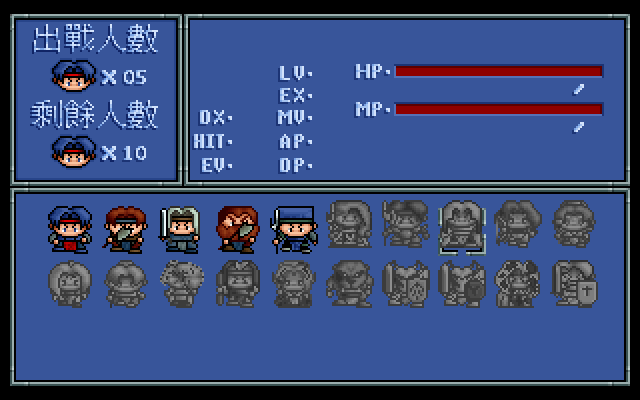
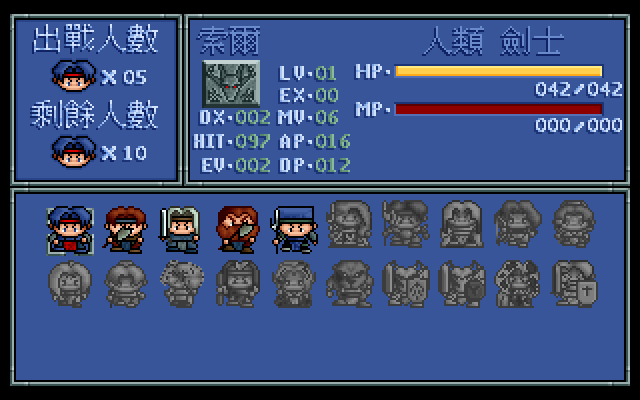
remake: 接回整備角色狀態面板

diff --git a/remake/cmd/fd2/native_preparation_ui_test.go b/remake/cmd/fd2/native_preparation_ui_test.go
@@ -18,6 +18,27 @@ func TestComposeNativePreparationFrameUsesRawRosterSelectors(t *testing.T) {
 	if err != nil {
 		t.Skipf("player-provided original assets are absent: %v", err)
 	}
+	status, err := battle.LoadNativeItemPanelDataAssets(
+		filepath.Join(base, "FDOTHER.DAT"),
+		filepath.Join(base, "FDTXT.DAT"),
+	)
+	if err != nil {
+		t.Fatal(err)
+	}
+	scenario, err := battle.LoadScenario("../../assets/scenarios/ch01.json")
+	if err != nil {
+		t.Fatal(err)
+	}
+	units := scenario.PartyUnits(nil)
+	if len(units) < 3 {
+		t.Fatal("chapter one party lacks three native records")
+	}
+	ids := make([]int, 3)
+	roster := make(map[int]battle.Unit, len(ids))
+	for i, unit := range units[:3] {
+		ids[i] = unit.Fig
+		roster[unit.Fig] = *unit
+	}
 	g := &Game{
 		camp: campaign.NewRunner(&campaign.Campaign{
 			Start: "prep",
@@ -25,24 +46,20 @@ func TestComposeNativePreparationFrameUsesRawRosterSelectors(t *testing.T) {
 				"prep": {Type: "preparation", PartyLimit: 15},
 			},
 		}),
-		nativePreparationUI: assets,
+		nativePreparationUI: &nativePreparationUIAssets{roster: assets, status: status},
 		nativeClassUI:       &nativeClassUIAssets{},
-		prepIDs:             []int{0, 9, 4},
+		prepIDs:             ids,
 		prepSel:             1,
 		prepLimit:           15,
 		prepSelecting:       true,
-		partyDeploy:         map[int]bool{9: true},
-		partyRoster: map[int]battle.Unit{
-			0: {MapSelectorKey: 0, HasMapSelectorKey: true},
-			9: {MapSelectorKey: 9, HasMapSelectorKey: true},
-			4: {MapSelectorKey: 4, HasMapSelectorKey: true},
-		},
+		partyDeploy:         map[int]bool{ids[1]: true},
+		partyRoster:         roster,
 	}
 	frame, ok := g.composeNativePreparationFrame()
 	if !ok || len(frame) != 320*200 {
 		t.Fatalf("native preparation frame unavailable: ok=%v length=%d", ok, len(frame))
 	}
-	g.partyRoster[9] = battle.Unit{}
+	g.partyRoster[ids[1]] = battle.Unit{}
 	if _, ok := g.composeNativePreparationFrame(); ok {
 		t.Fatal("preparation renderer guessed a missing raw FDICON selector")
 	}

diff --git a/remake/cmd/fd2/native_preparation_ui.go b/remake/cmd/fd2/native_preparation_ui.go
@@ -5,18 +5,34 @@ import (
 	"path/filepath"
 
 	"github.com/hajimehoshi/ebiten/v2"
+	"github.com/wicanr2/fd2_re/remake/internal/battle"
 	"github.com/wicanr2/fd2_re/remake/internal/fdother"
 )
 
-func loadNativePreparationUIAssets() (*fdother.NativePreparationAssets, error) {
+type nativePreparationUIAssets struct {
+	roster *fdother.NativePreparationAssets
+	status battle.NativeItemPanelDataAssets
+}
+
+func loadNativePreparationUIAssets() (*nativePreparationUIAssets, error) {
 	fdotherPath := nativeFDOTHERPath()
 	if fdotherPath == "" {
 		return nil, errors.New("native preparation UI: FDOTHER.DAT unavailable")
 	}
-	return fdother.DecodeNativePreparationAssets(
+	roster, err := fdother.DecodeNativePreparationAssets(
 		fdotherPath,
 		filepath.Join(filepath.Dir(fdotherPath), "FDICON.B24"),
 	)
+	if err != nil {
+		return nil, err
+	}
+	status, err := battle.LoadNativeItemPanelDataAssets(
+		fdotherPath, filepath.Join(filepath.Dir(fdotherPath), "FDTXT.DAT"),
+	)
+	if err != nil {
+		return nil, err
+	}
+	return &nativePreparationUIAssets{roster: roster, status: status}, nil
 }
 
 func (g *Game) composeNativePreparationFrame() ([]byte, bool) {
@@ -42,10 +58,20 @@ func (g *Game) composeNativePreparationFrame() ([]byte, bool) {
 	// lifecycle is still open, so production deliberately presents the
 	// verified base state 0 rather than borrowing another screen's timer.
 	frame, err := fdother.ComposeNativePreparationFrame(
-		g.nativePreparationUI,
+		g.nativePreparationUI.roster,
 		keys, selected, g.prepSel, 0, g.prepLimit,
 	)
 	if err != nil {
+		return nil, false
+	}
+	unit := g.partyRoster[g.prepIDs[g.prepSel]]
+	record, err := battle.NativeItemPanelRecordForUnit(&unit)
+	if err != nil {
+		return nil, false
+	}
+	if err := battle.RenderNativeItemPanelData(
+		g.nativePreparationUI.status, record, frame,
+	); err != nil {
 		return nil, false
 	}
 	return frame, true

diff --git a/remake/cmd/fd2-preparation-oracle/main.go b/remake/cmd/fd2-preparation-oracle/main.go
@@ -11,11 +11,13 @@ import (
 	"os"
 	"path/filepath"
 
+	"github.com/wicanr2/fd2_re/remake/internal/battle"
 	"github.com/wicanr2/fd2_re/remake/internal/fdother"
 )
 
 func main() {
 	base := flag.String("base", "", "player-owned FLAME2 directory")
+	scenario := flag.String("scenario", "", "editable scenario supplying one proven native party record")
 	out := flag.String("out", "preparation-roster-oracle.png", "output PNG")
 	flag.Parse()
 	if *base == "" {
@@ -37,11 +39,39 @@ func main() {
 		selected[i] = i < 5
 	}
 	frame, err := fdother.ComposeNativePreparationFrame(
-		assets, keys, selected, 7, 0, 15,
+		assets, keys, selected, 0, 0, 15,
 	)
 	if err != nil {
 		fmt.Fprintln(os.Stderr, err)
 		os.Exit(1)
+	}
+	if *scenario != "" {
+		dataAssets, err := battle.LoadNativeItemPanelDataAssets(
+			fdotherPath, filepath.Join(*base, "FDTXT.DAT"),
+		)
+		if err != nil {
+			fmt.Fprintln(os.Stderr, err)
+			os.Exit(1)
+		}
+		battleScenario, err := battle.LoadScenario(*scenario)
+		if err != nil {
+			fmt.Fprintln(os.Stderr, err)
+			os.Exit(1)
+		}
+		units := battleScenario.PartyUnits(nil)
+		if len(units) == 0 {
+			fmt.Fprintln(os.Stderr, "指定情境沒有可用的原始玩家角色記錄")
+			os.Exit(1)
+		}
+		record, err := battle.NativeItemPanelRecordForUnit(units[0])
+		if err != nil {
+			fmt.Fprintln(os.Stderr, err)
+			os.Exit(1)
+		}
+		if err := battle.RenderNativeItemPanelData(dataAssets, record, frame); err != nil {
+			fmt.Fprintln(os.Stderr, err)
+			os.Exit(1)
+		}
 	}
 	paletteRaw, err := fdother.ReadResource(fdotherPath, 0)
 	if err != nil {

diff --git a/remake/cmd/fd2/main.go b/remake/cmd/fd2/main.go
@@ -181,7 +181,7 @@ type Game struct {
 	nativeTownUIPulse        int
 	nativeTownUILastTick     int
 	nativeTownUIHasTick      bool
-	nativePreparationUI      *fdother.NativePreparationAssets
+	nativePreparationUI      *nativePreparationUIAssets
 	nativeChurchUIJob        *nativeChurchUIJob
 	nativeChurchUIClock      nativeBIOSClock
 	nativeChurchUIPulse      int

diff --git a/docs/knowledge-base/91-worklist.md b/docs/knowledge-base/91-worklist.md
@@ -996,8 +996,10 @@
   生產接線與真實 FDOTHER／FDICON 回歸；局部證據圖為
   [`preparation-roster-compositor-partial.png`](../figures/preparation-roster-compositor-partial.png)。
   此圖以原始圖像索引 0～19 建立，明確不是 DOSBox 截圖、正常戰役名冊或
-  `FD2.SAV` 證據。下一門檻是 `0x17fc0` 右上角色狀態、BIOS 待機週期、
-  `0x1f42d` 動畫、最終確認與合法晚期存檔的同狀態實機差分。
+  `FD2.SAV` 證據。游標角色的右上狀態已直接重用既有、真實資源驗證的
+  `0x17fc0` 合成器與完整 0x50 位元組記錄；缺原始欄位即整張退回。
+  下一門檻是 BIOS 待機週期、`0x1f42d` 動畫、最終確認與合法晚期存檔的
+  同狀態實機差分。
 - [~] **SDD-3 UI shell vertical slice**：已新增 `TestUIShellVerticalTraceKeepsPostbattleTownAndShopBoundary`，以 title confirm、story→battle、battle win→editable postbattle、town→shop→town 的同一 state trace 固定「戰後不可直跳下一戰」；既有 town/shop/preparation 截圖 artifact 與 Docker/Xvfb regression 可重跑。battle field/action/dialog 的同一條畫面 trace、原版 DOSBox pixel differential 仍待補齊。
 - [ ] **SDD-4 native renderer re-audit**：完成 resource provenance 與 indexed buffer contract 前，不得把 finale figure-fade／ending prefix 宣稱為完成。
 - [x] **RE-UNIT-STATIC-TABLES**：以 Docker 實際 FD2.EXE 產生/驗證 raw fixture：高 branch `b1-0x44 → 0x61af9` 68×10；lower branch `0x61da1` 32×24／`0x620a1` 68×11。constructor caller 的 level 公式與 `+0x42` join 已由 Capstone 固定；`export_units.py`／`sync_native_selector_fields.py` 將 raw provenance 輸出到 33 張 editable map asset。未被 table 覆蓋的 selector 與 HUD renderer consumer 仍維持 fail-closed；`0x619fd` 不屬於 constructor。

diff --git a/docs/knowledge-base/SESSION-HANDOFF-2026-07-06.md b/docs/knowledge-base/SESSION-HANDOFF-2026-07-06.md
@@ -1992,6 +1992,12 @@ slot6 active 條件、SPAWN2、兩段 PAN、800/200ms 與 FDTXT_003 #4 七句也
   [`preparation-roster-compositor-partial.png`](../figures/preparation-roster-compositor-partial.png)
   以原始圖像索引 0～19 顯示 20 格，只是資源／版面局部證據，不是原版
   DOSBox、正常戰役名冊或晚期存檔。
-- 尚未完成：`0x17fc0` 右上角色狀態、`0x1297d` BIOS 待機週期、
-  `0x1f42d` 進退動畫、最終確認外觀，以及合法晚期 `FD2.SAV` 的同狀態
-  原版／重製差分。這些缺口使 UI-11 維持部分完成。
+- 後續重讀 `0x17fc0..0x182ab`，確認它就是既有教會／物品面板使用的同一
+  個 0x50 位元組角色記錄合成器。整備生產路徑現先畫背景／名冊，再把游標
+  角色交給 `NativeItemPanelRecordForUnit→RenderNativeItemPanelData`，
+  重現姓名、種族、職業、HP／MP、等級、經驗、移動與能力值；缺任何原始
+  記錄欄位即整張退回，不從正規化名稱或角色編號補猜。成果圖以 ch01 索爾
+  的真實可編輯情境記錄填入右上狀態。
+- 尚未完成：`0x1297d` BIOS 待機週期、`0x1f42d` 進退動畫、最終確認外觀，
+  以及合法晚期 `FD2.SAV` 的同狀態原版／重製差分。這些缺口使 UI-11
+  維持部分完成。
